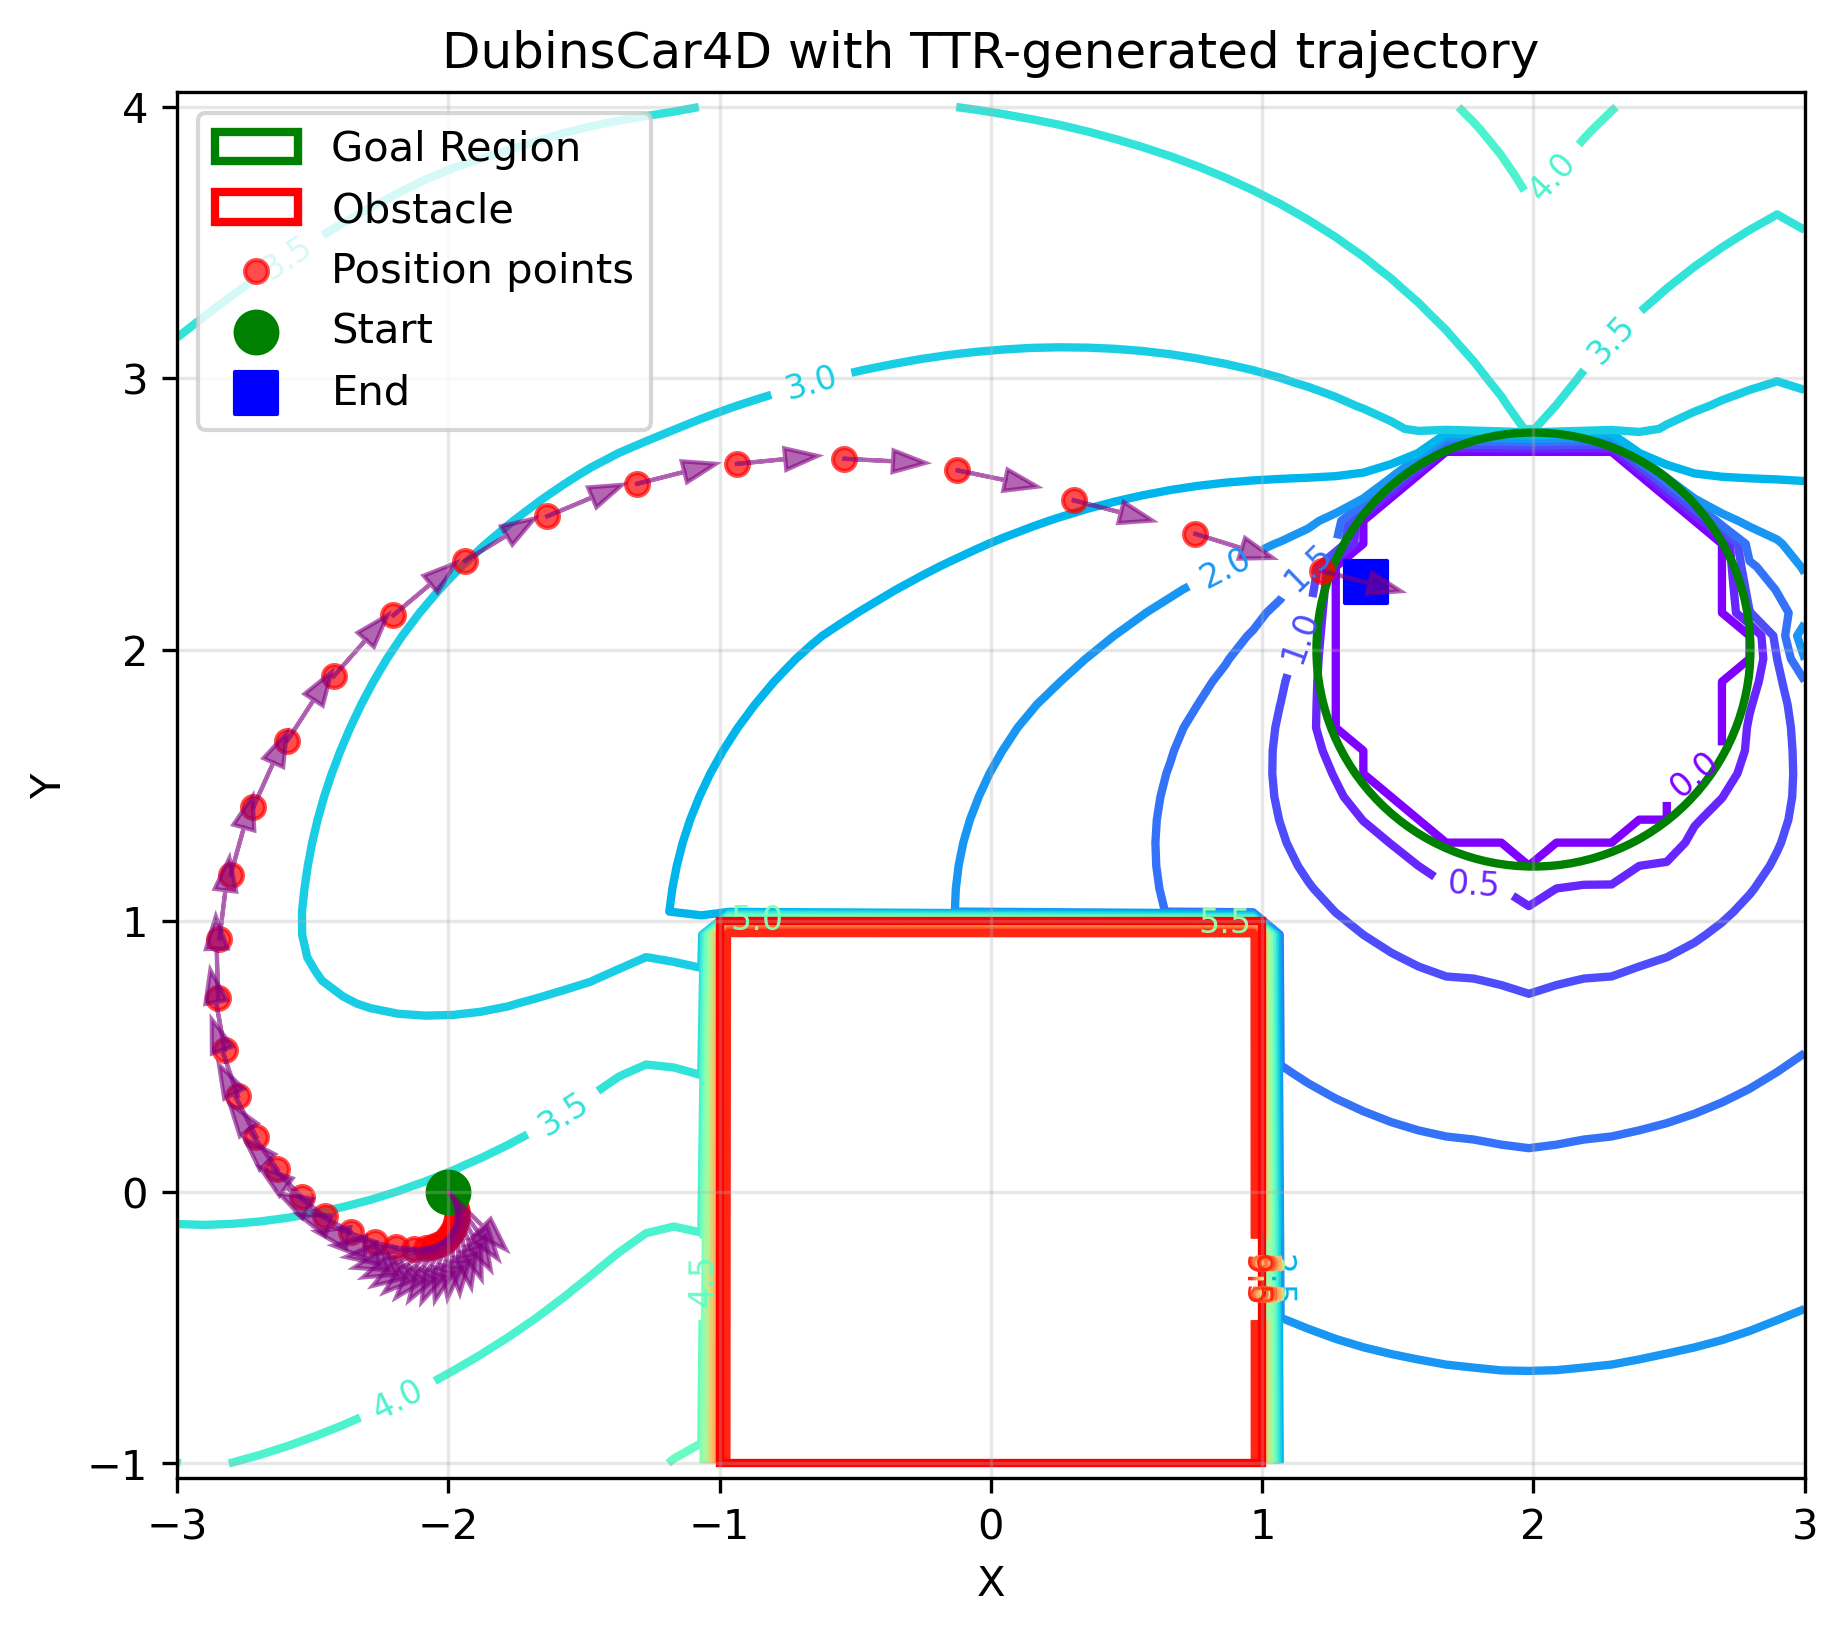
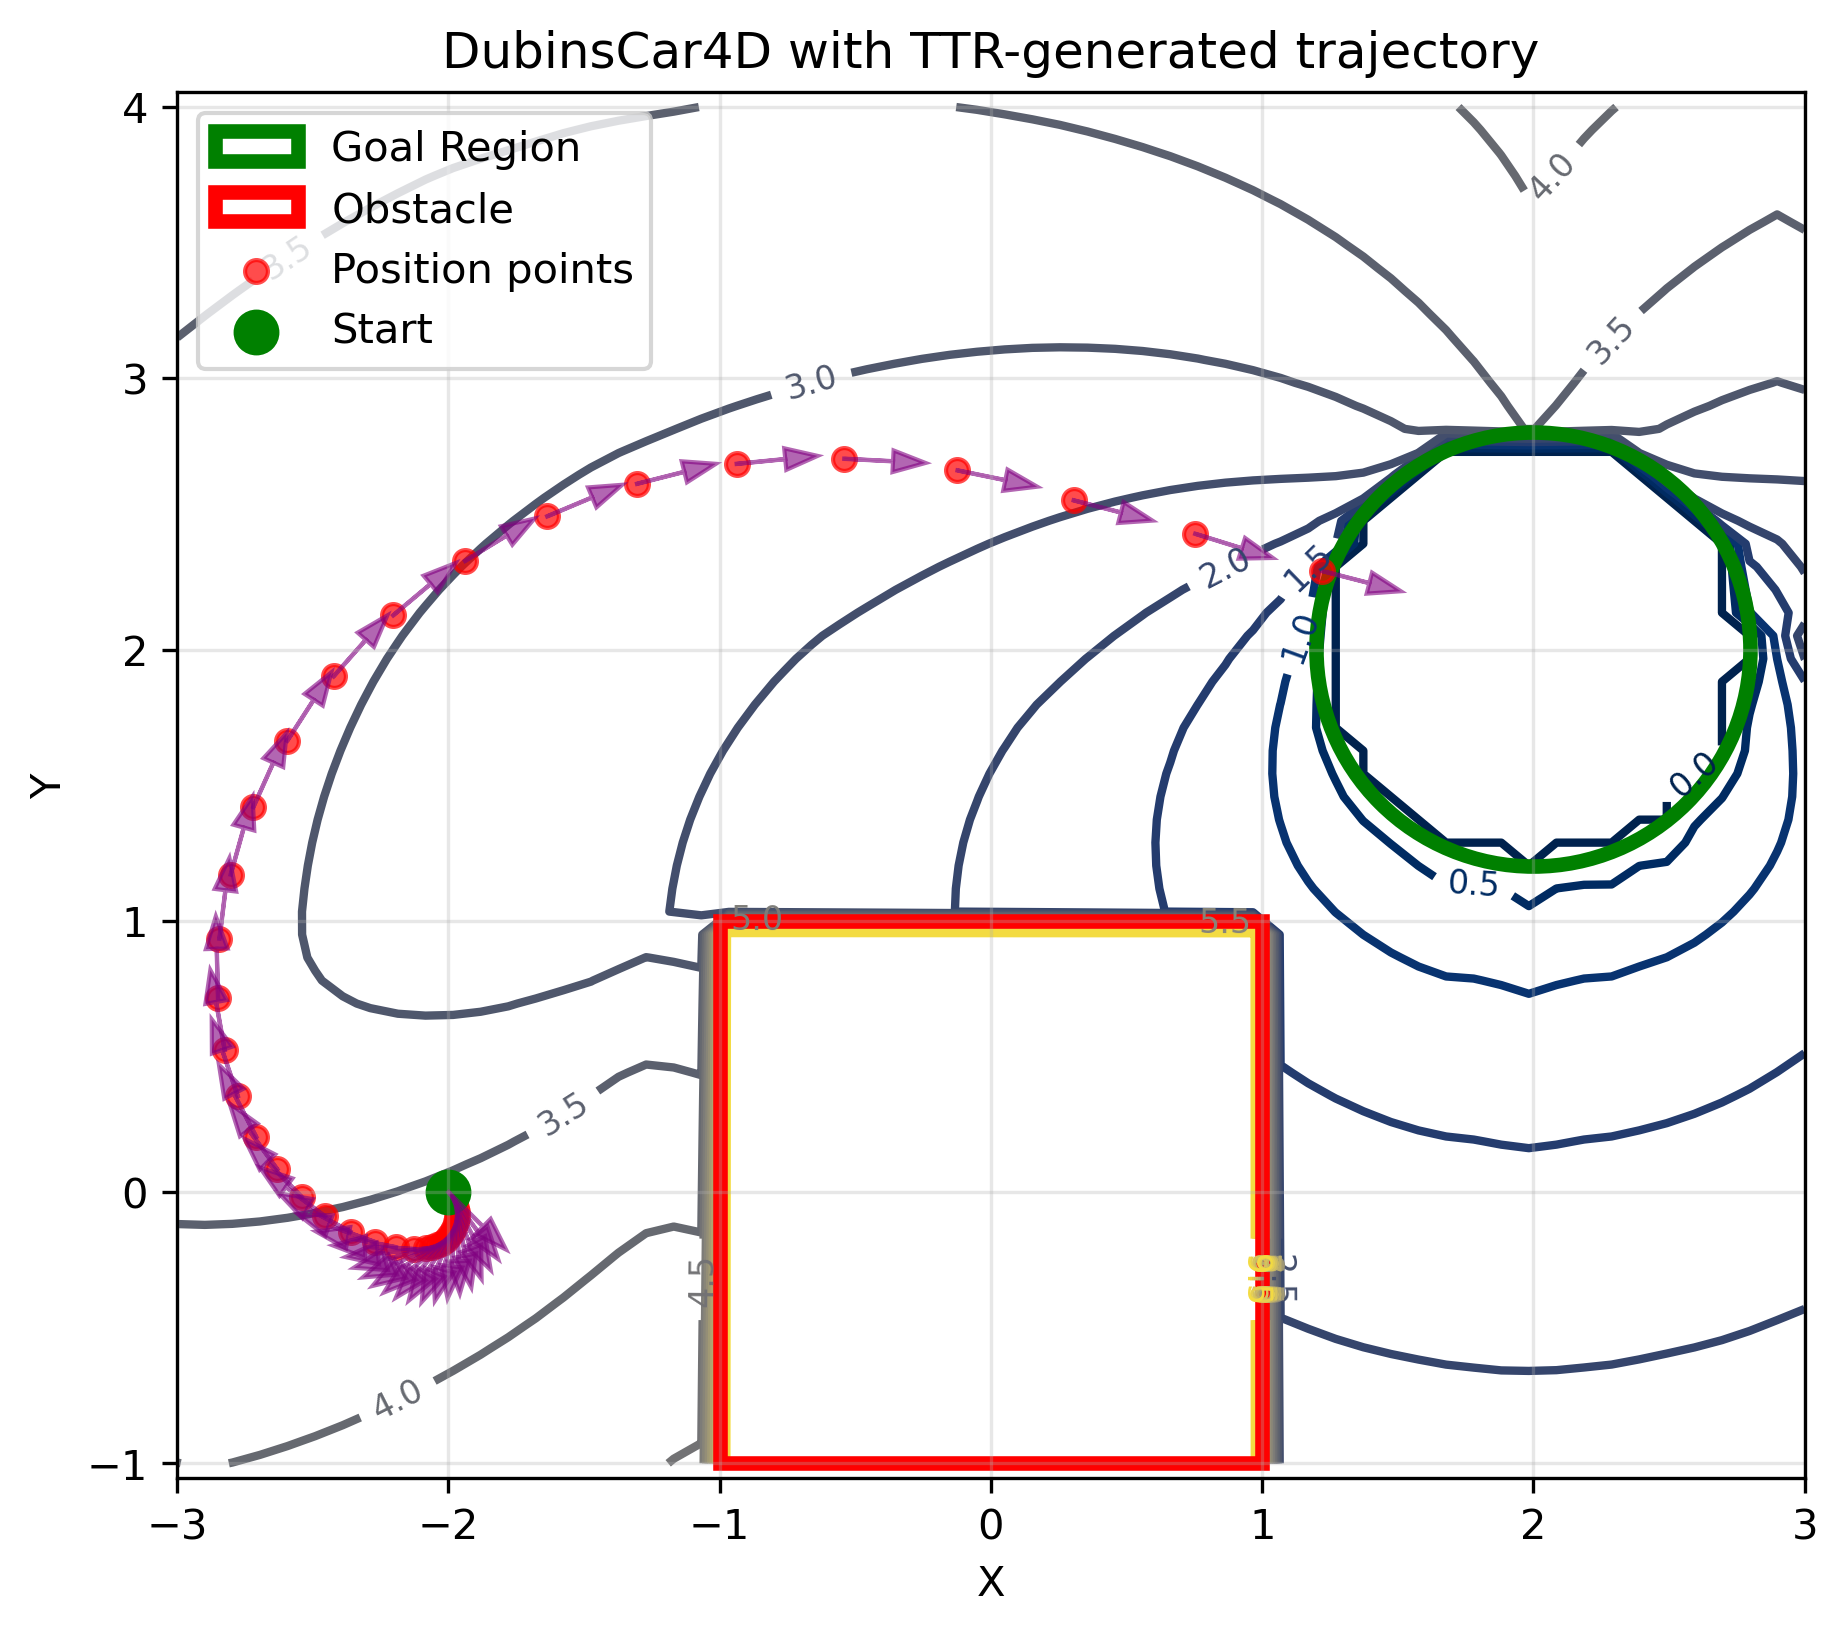
change the color

diff --git a/paper_examples/odp_paper/utils.py b/paper_examples/odp_paper/utils.py
@@ -227,8 +227,8 @@ def plot_trajectory_scatter(traj, ax=None, save_dir=None, scatter_density=10, x_
     # Plot start and end points (special markers)
     ax.scatter(traj_array[0, 0], traj_array[0, 1], 
                c='green', marker='o', s=100, label='Start')
-    ax.scatter(traj_array[-1, 0], traj_array[-1, 1], 
-               c='blue', marker='s', s=100, label='End')
+    # ax.scatter(traj_array[-1, 0], traj_array[-1, 1], 
+    #            c='blue', marker='s', s=100, label='End')
     
     # Draw direction arrows for sampled points
     arrow_length = 0.3  # Arrow length
@@ -315,7 +315,7 @@ def plot_trajectories_basic(p_traj, e_traj, save_dir=None):
 def plot_value_contour(grid, value_function, plot_dims, fixed_values=None, vmin=0, vmax=10, 
                       ax=None, save_dir=None, goal_center=None, goal_radius=None, 
                       obstacles=None, obstacle_color='red', goal_color='green',
-                      linewidth=2, linestyle='-', contour_linewidth=2, contour_linestyle='-',
+                      linewidth=3.5, linestyle='-', contour_linewidth=2, contour_linestyle='-',
                       show_contour_labels=True, contour_levels=20):
     """
     Plot contour lines of a 4D value function with goal and obstacles (boundaries only).
@@ -449,7 +449,7 @@ def plot_value_contour(grid, value_function, plot_dims, fixed_values=None, vmin=
     
     # Plot contour lines instead of filled contours
     contour = ax.contour(X, Y, slice_2d_clipped.T, levels=contour_levels, 
-                        cmap="rainbow", linewidths=contour_linewidth, 
+                        cmap="cividis", linewidths=contour_linewidth, 
                         linestyles=contour_linestyle, vmin=vmin, vmax=vmax,
                         zorder=1)
     
